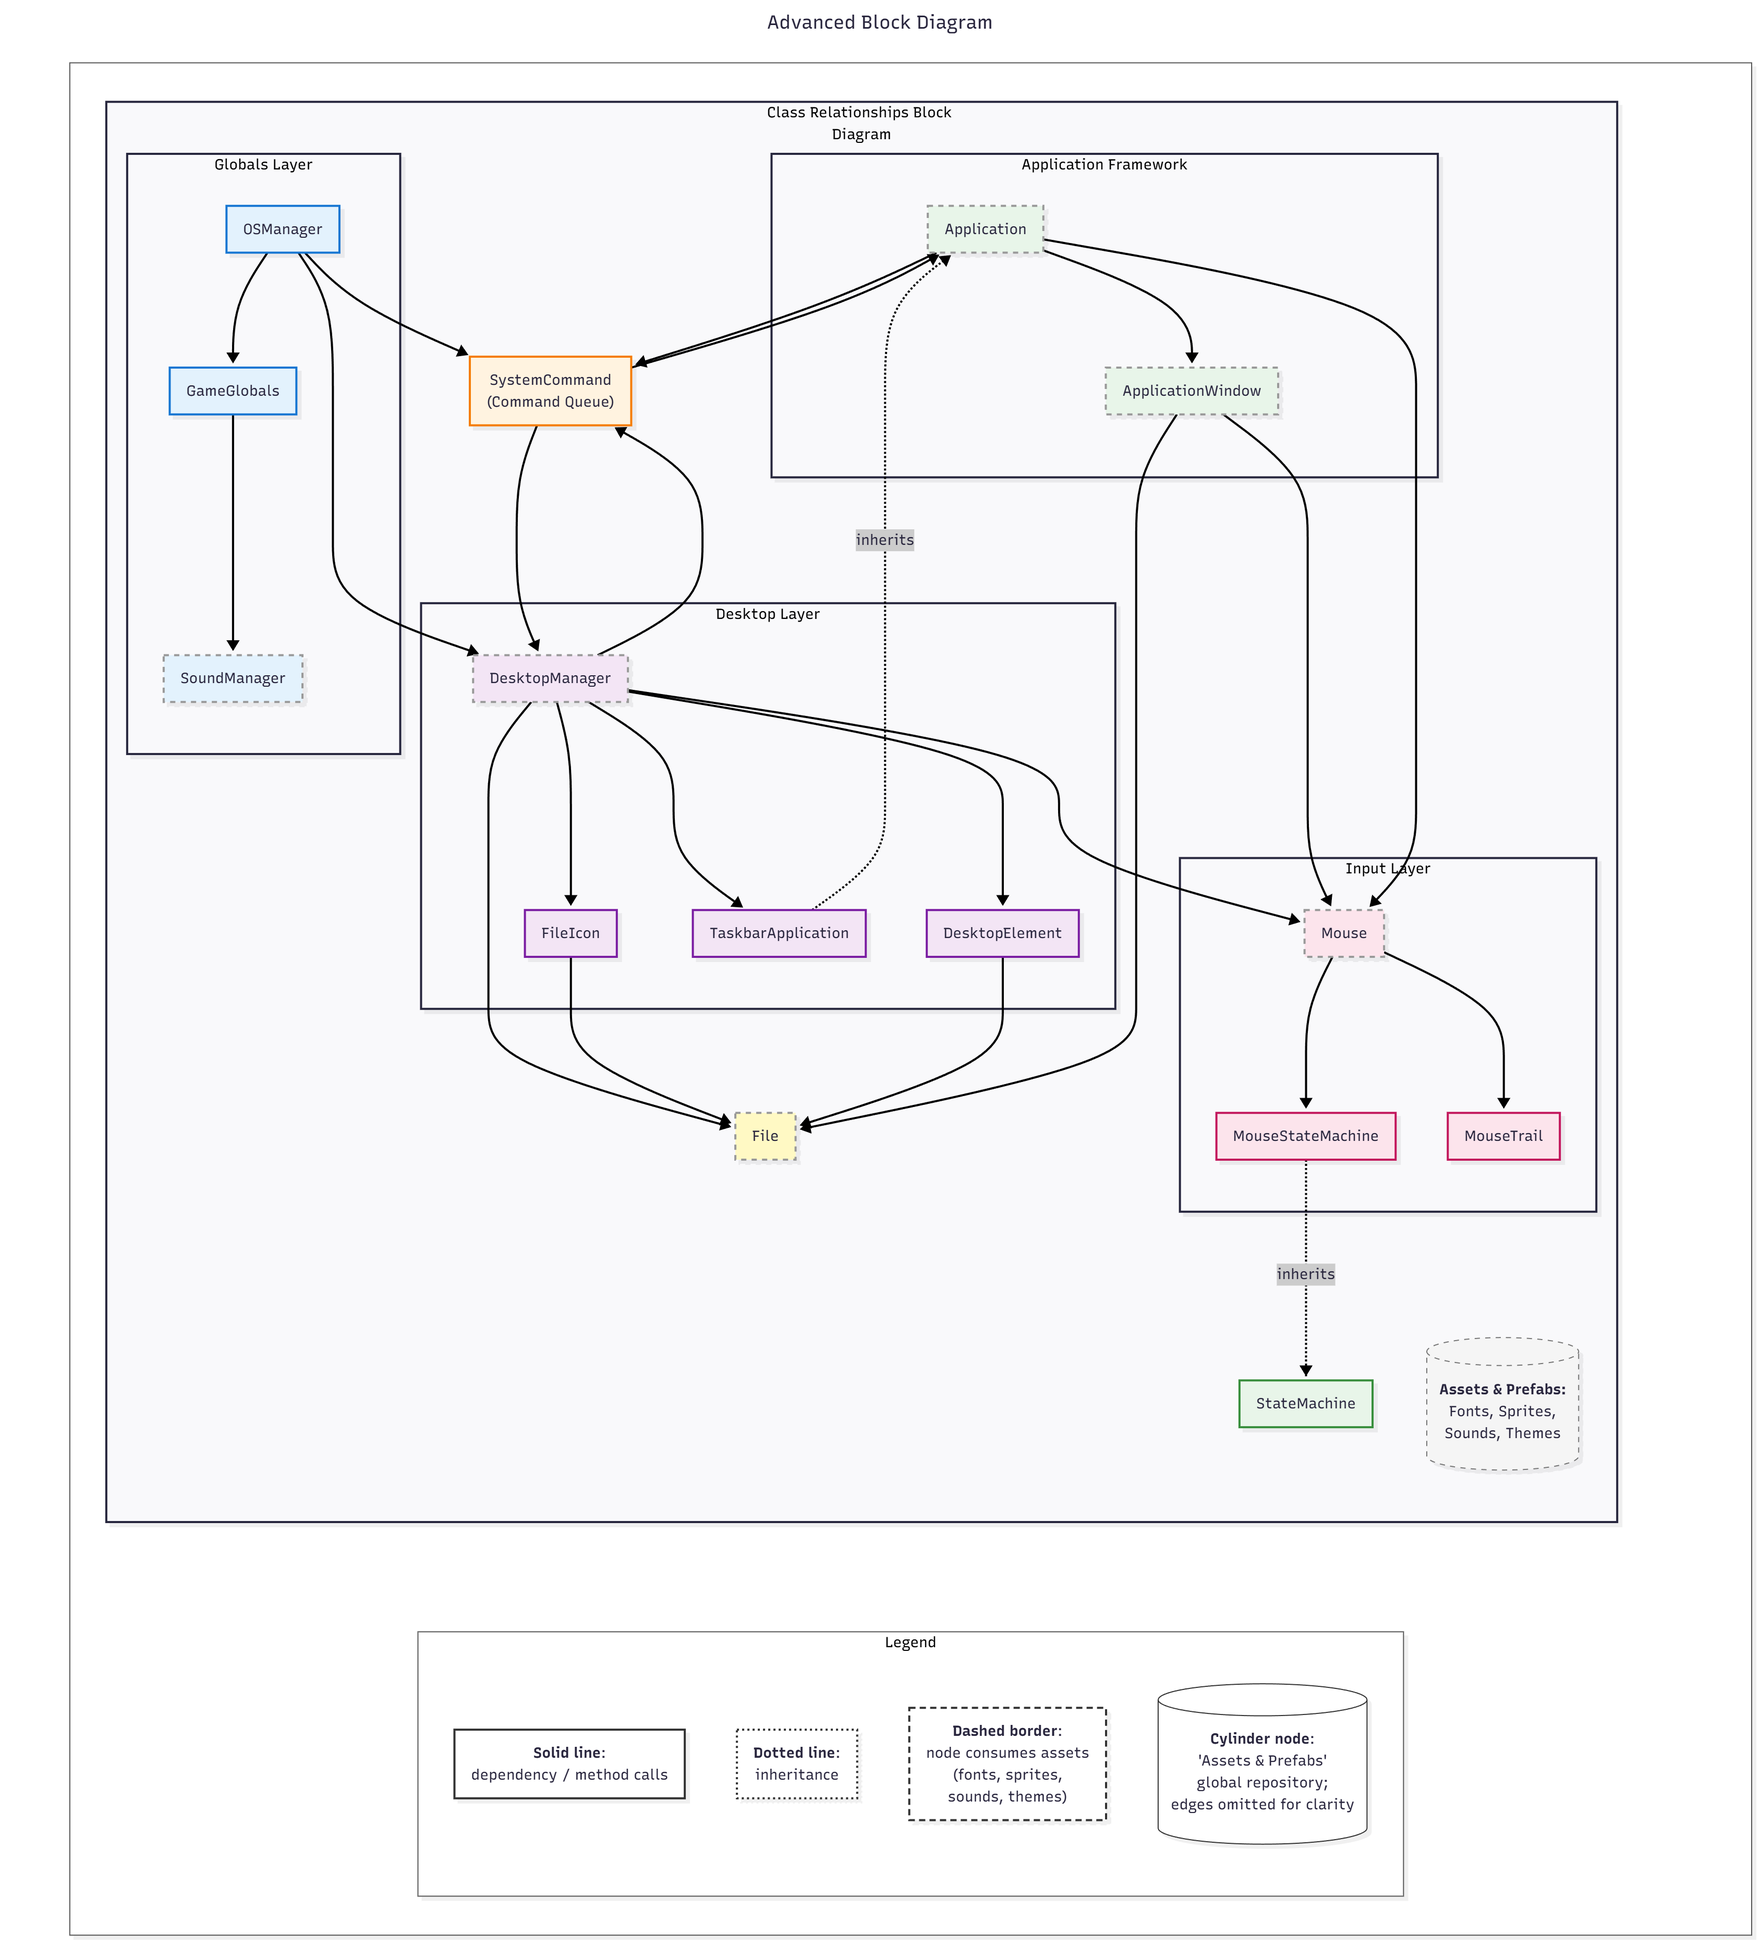
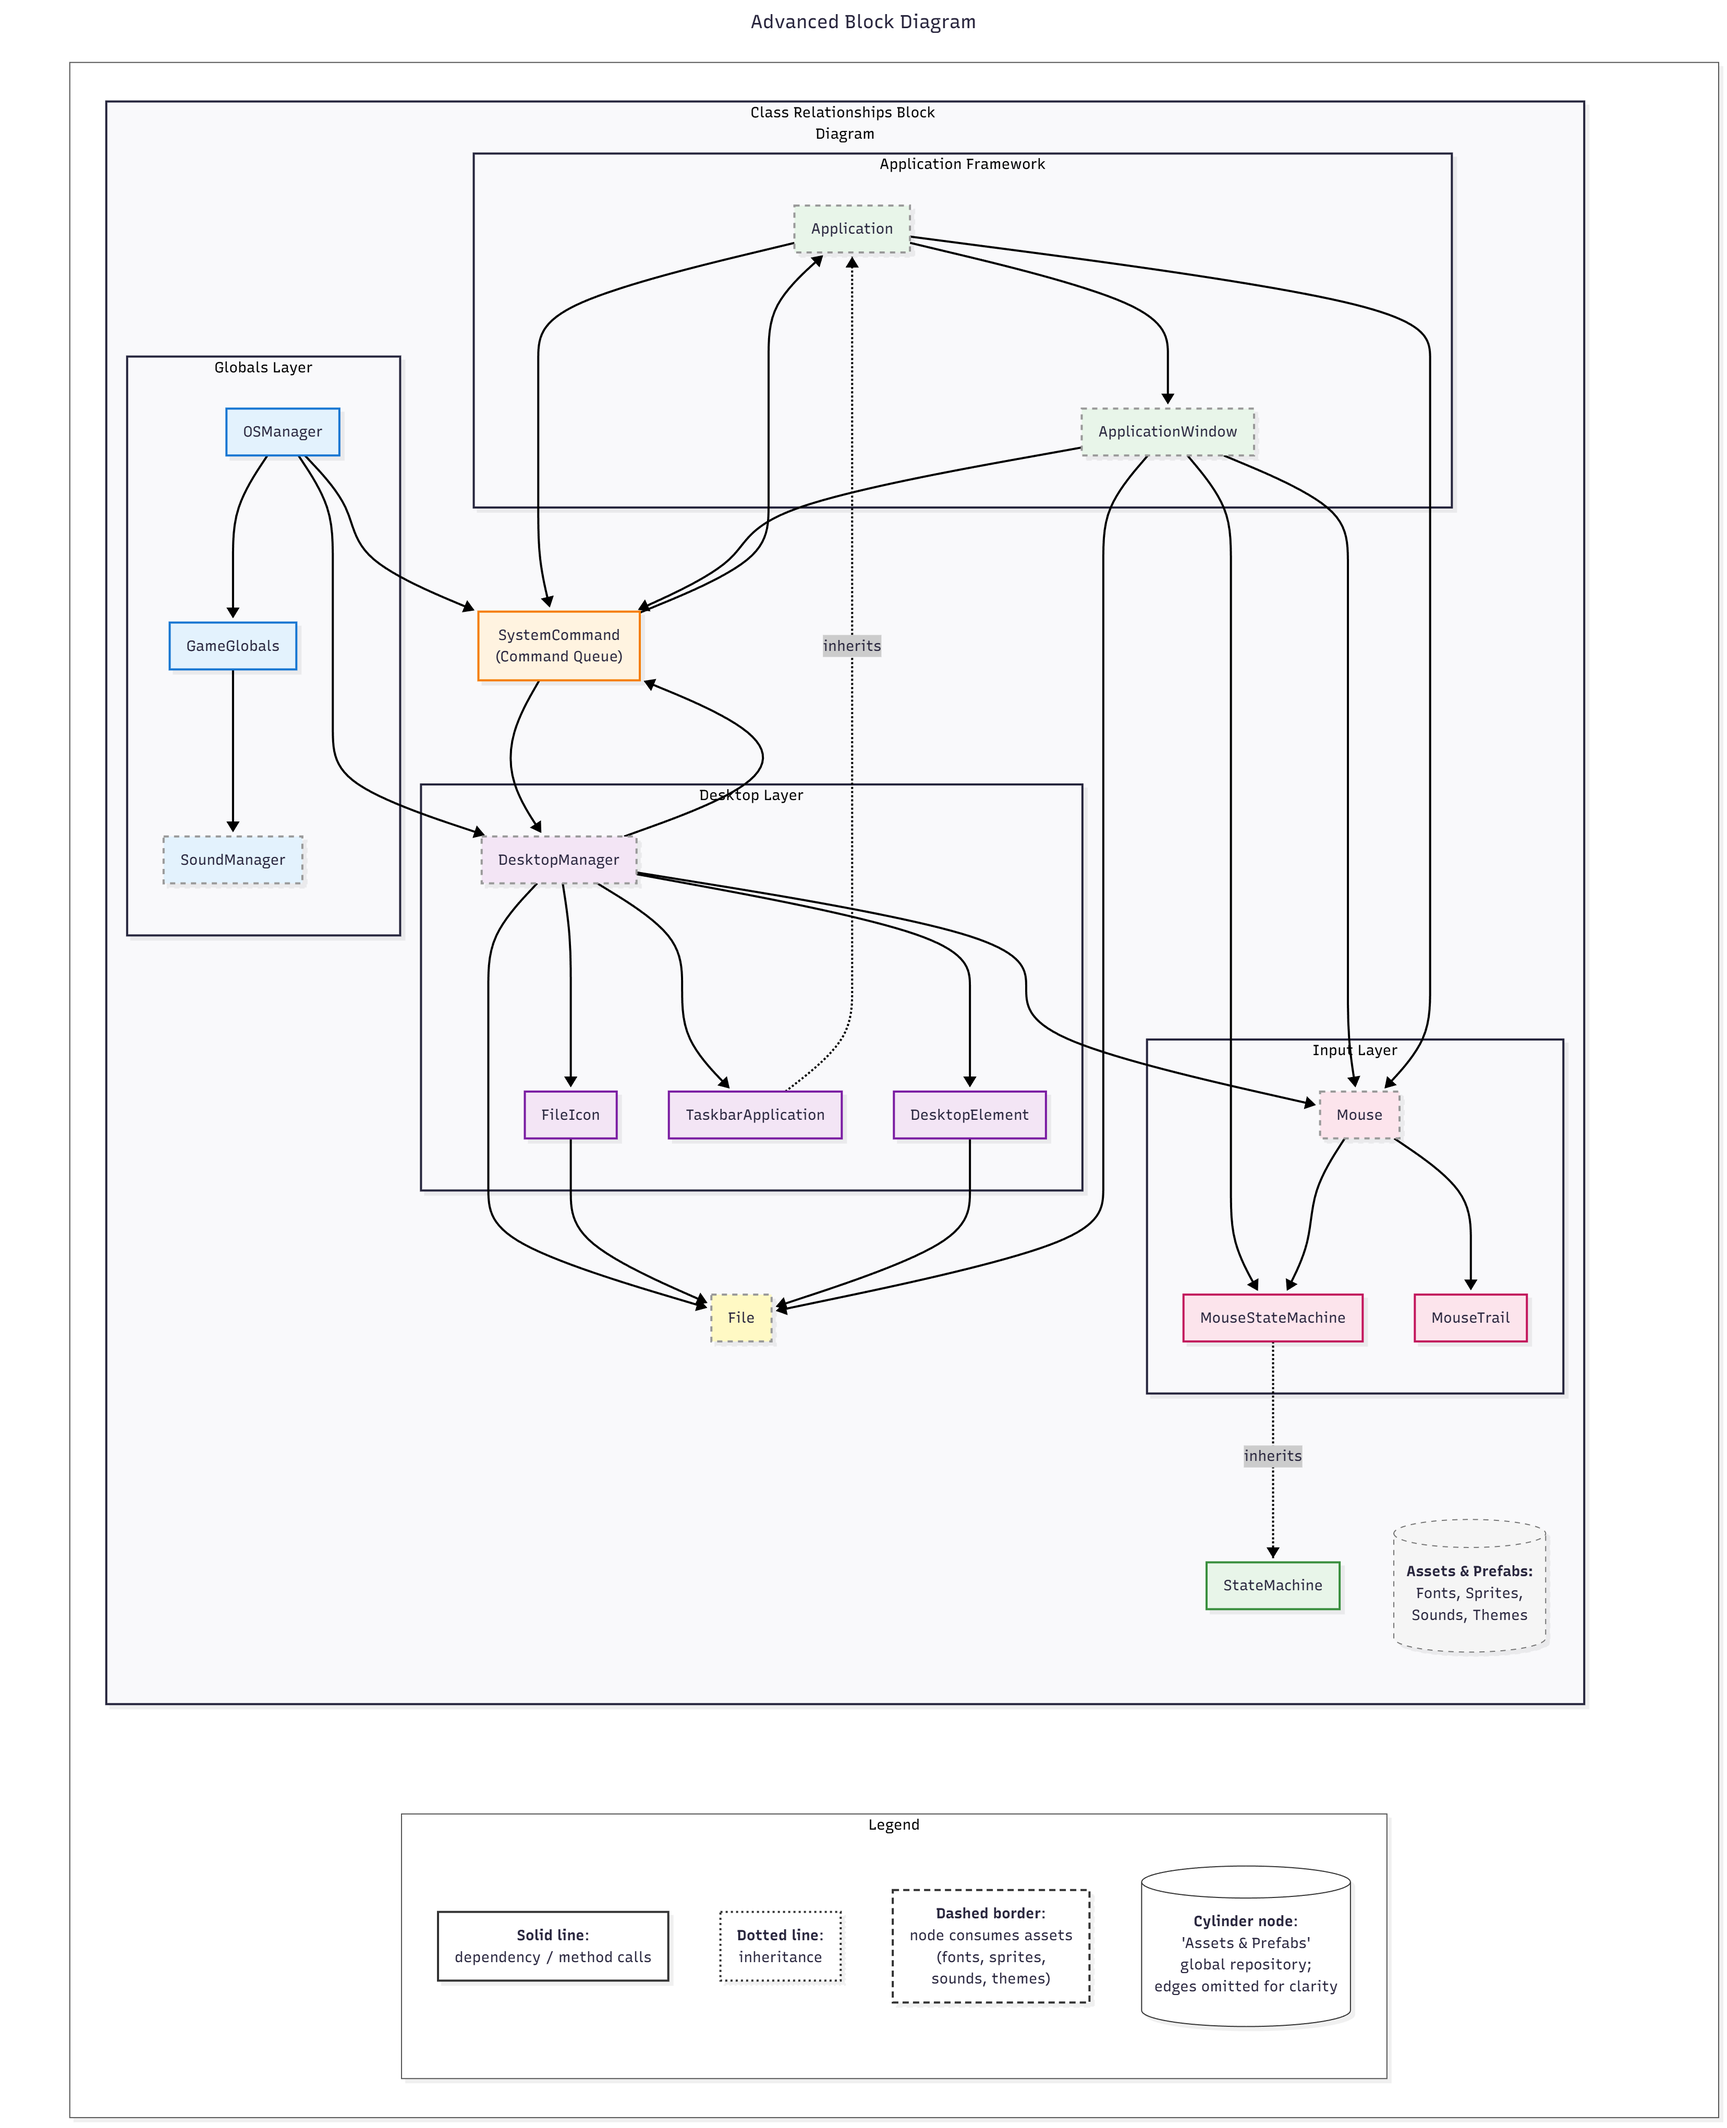
Advanced Diagram finalized

diff --git a/docs/4-diagrams.md b/docs/4-diagrams.md
@@ -33,6 +33,19 @@ The system is organized into several key layers:
 
 ![Block Diagram](charts/basic-block-diagram.png)
 
+### Advanced Block Diagram
+
+This expanded diagram provides a more detailed view of class-level relationships, data/control flow, and layer boundaries. It emphasizes:
+- Invocation paths between `Application`, `ApplicationWindow`, and the `SystemCommand` queue
+- Desktop layer elements (`DesktopManager`, `FileIcon`, `TaskbarApplication`, `DesktopElement`) and their interactions
+- Mouse input flow and internal state machine composition
+- Separation of global managers from window/application framework logic
+- Resource/asset consumption (indicated via dashed borders) without cluttering the diagram with individual asset arrows
+
+Use this when you need to reason about how commands propagate, where state transitions occur, or which components depend on global services.
+
+![Advanced Block Diagram](charts/advanced-block-diagram.png)
+
 ---
 
 ## Use Case Diagram
